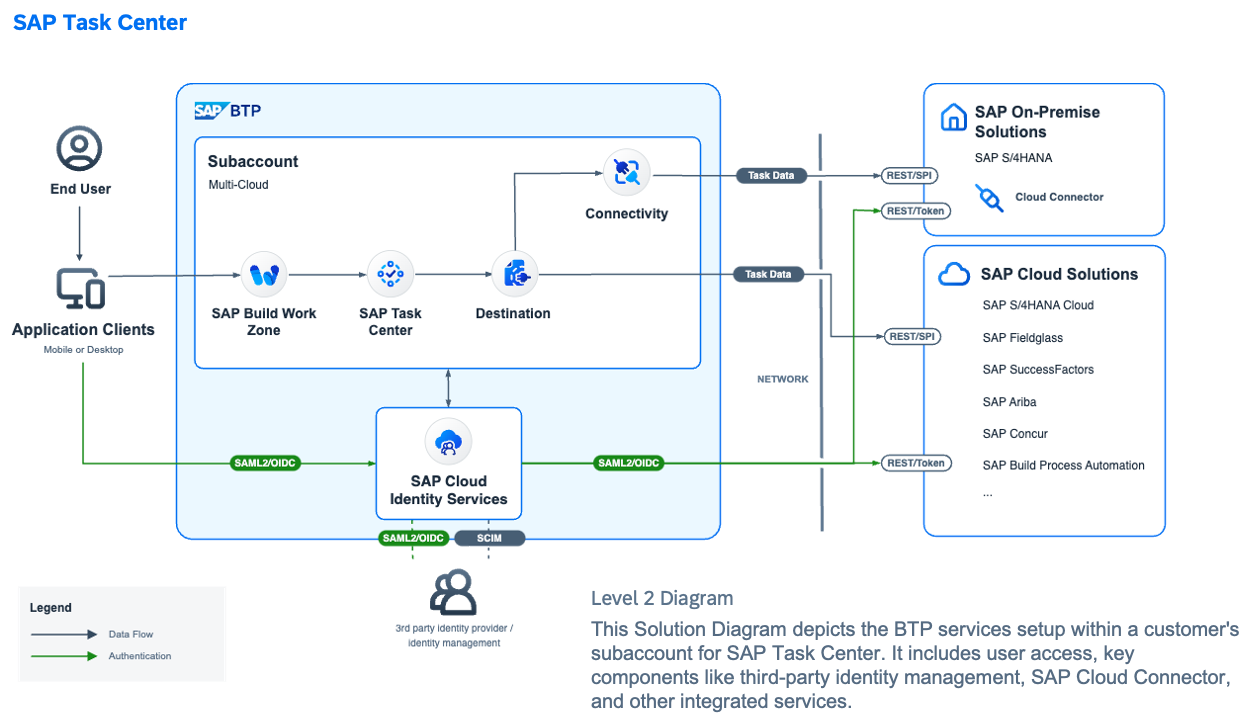
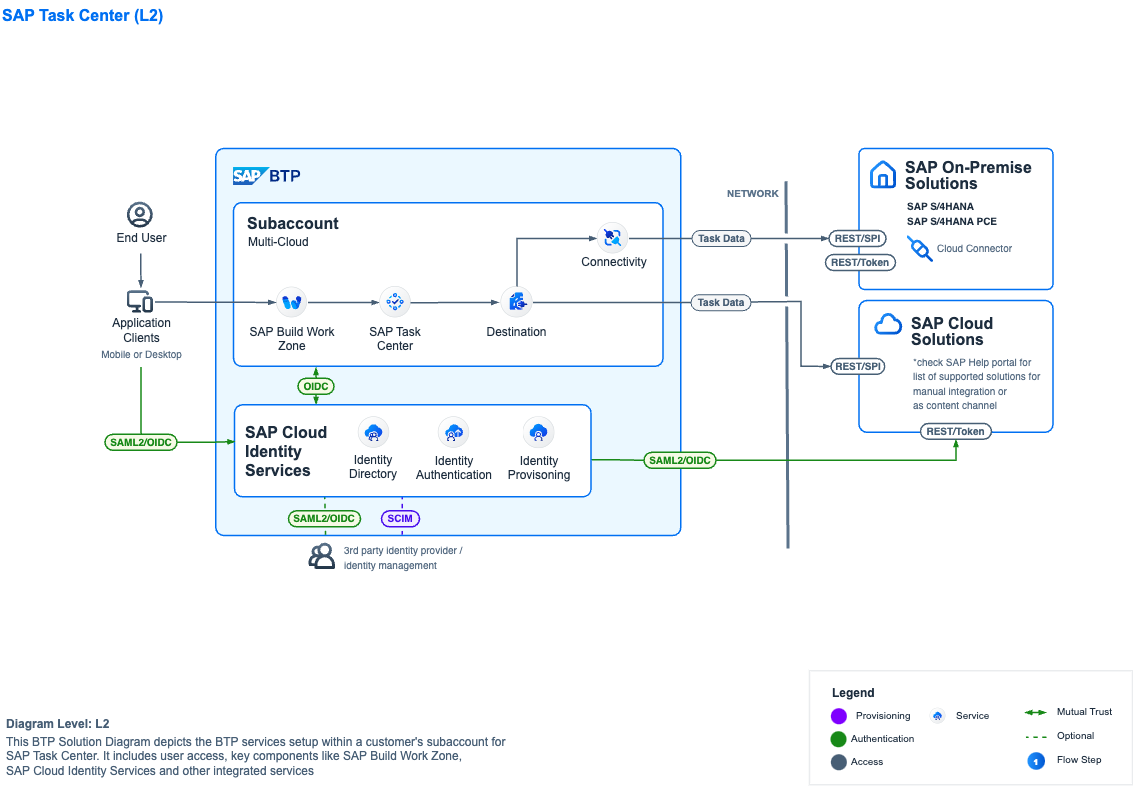
new and updated examples for guideline (#74)

diff --git a/guideline/src/css/custom.css b/guideline/src/css/custom.css
@@ -787,13 +787,21 @@ padding-top: 25px;
 .stc_l1{
   width: 750px;
   height: 450px;
-  margin-bottom: 10px;
+  margin-bottom: 80px;
   padding-top: 0px;
 }
 
 .stc_l2{
   width: 750px;
   height: 450px;
+  margin-bottom: 80px;
+  padding-top: 0px;
+}
+
+.cis_l2{
+  width: 750px;
+  height: 450px;
+  margin-bottom: 80px !important;
   padding-top: 0px;
 }
 
@@ -814,5 +822,10 @@ font-size: 20px;
   
   margin-top: 00px;
 padding-top: 0px;
+}
+
+.docusaurus-mt-lg{
+
+  margin-top: 10rem !important;
 }
 

diff --git a/guideline/docs/btp_guideline/examples.md b/guideline/docs/btp_guideline/examples.md
@@ -5,6 +5,7 @@ tags:
   - Basics
   - Color
   - Examples
+  - SolutionDiagrams
 ---
 
 # Examples
@@ -13,17 +14,37 @@ tags:
 
 <div className="stc_l0">
 ![areas](../pics/taskcenter_example.png)
+
+Reusable BTP Solution Diagram Template can be found [here](https://github.com/SAP/btp-solution-diagrams/blob/main/assets/editable-diagram-examples/SAP_Task_Center_L1.drawio)
 </div>
 
-## SAP Task Center Example - L1
 
-<div className="stc_l1">
-![areas](../pics/SAP_Task_Center_L1.png)
-</div>
 
 ## SAP Task Center Example - L2
 
-<div className="stc_l2">
+<div className="stc_l1">
 ![areas](../pics/SAP_Task_Center_L2.png)
+
+Reusable BTP Solution Diagram Template can be found [here](https://github.com/SAP/btp-solution-diagrams/blob/main/assets/editable-diagram-examples/SAP_Task_Center_L2.drawio)
+</div>
+
+
+
+## SAP Build Work Zone - L2
+
+<div className="stc_l2">
+![areas](../pics/SAP_Build_Work_Zone_L2.png)
+
+Reusable BTP Solution Diagram Template can be found [here](https://github.com/SAP/btp-solution-diagrams/blob/main/assets/editable-diagram-examples/SAP_Build_Work_Zone_L2.drawio)
+</div>
+
+
+
+## SAP Cloud Identity Services - Authentication - L2
+
+<div className="cis_l2">
+![areas](../pics/SAP_Cloud_Identity_Services_Authentication_L2.png)
+
+Reusable BTP Solution Diagram Template can be found [here](https://github.com/SAP/btp-solution-diagrams/blob/main/assets/editable-diagram-examples/SAP_Cloud_Identity_Services_Authentication_L2.drawio)
 </div>
 
